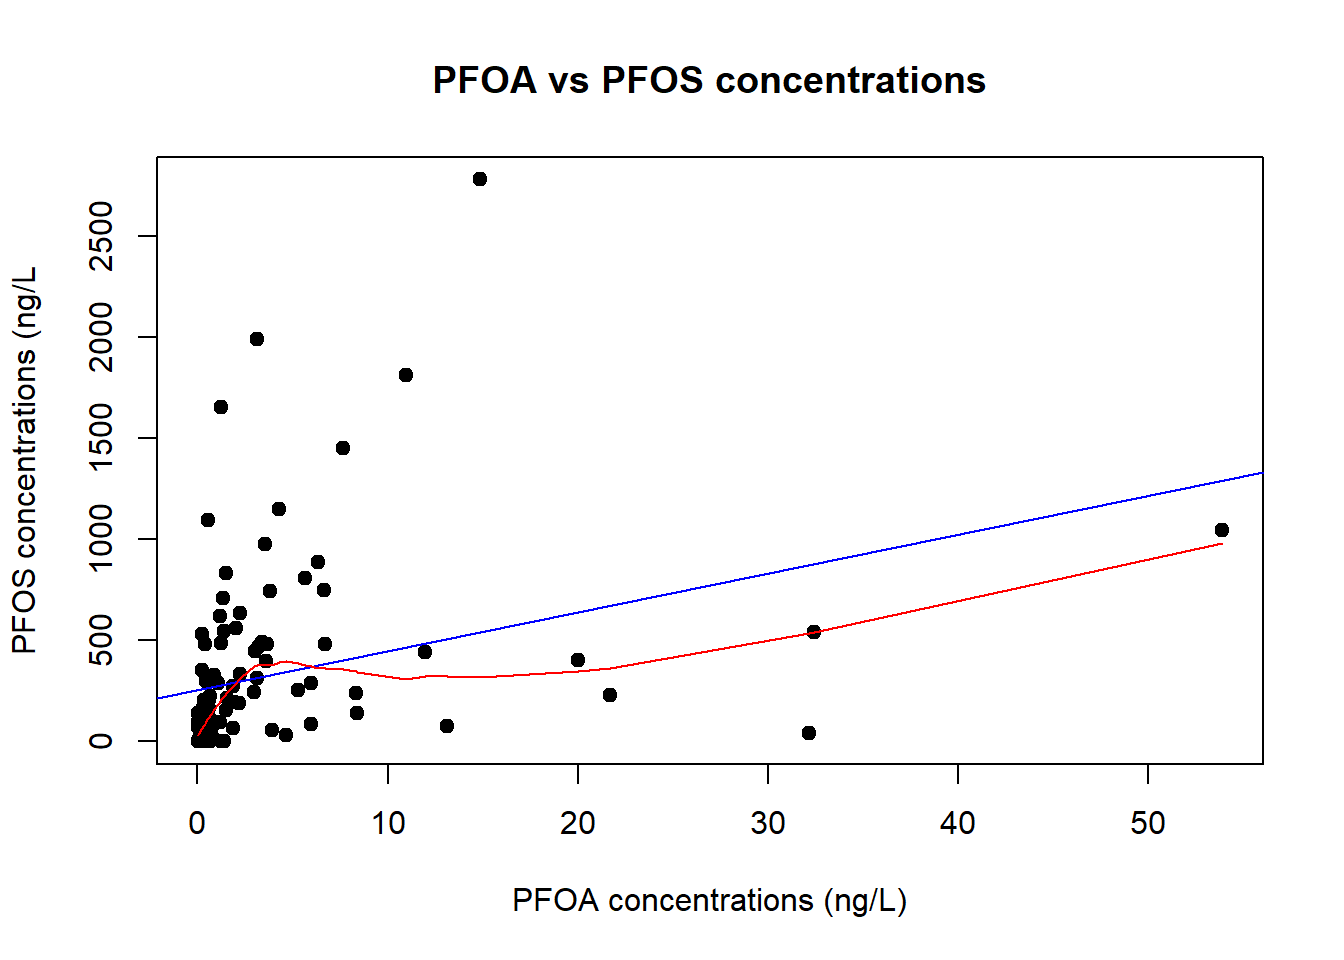
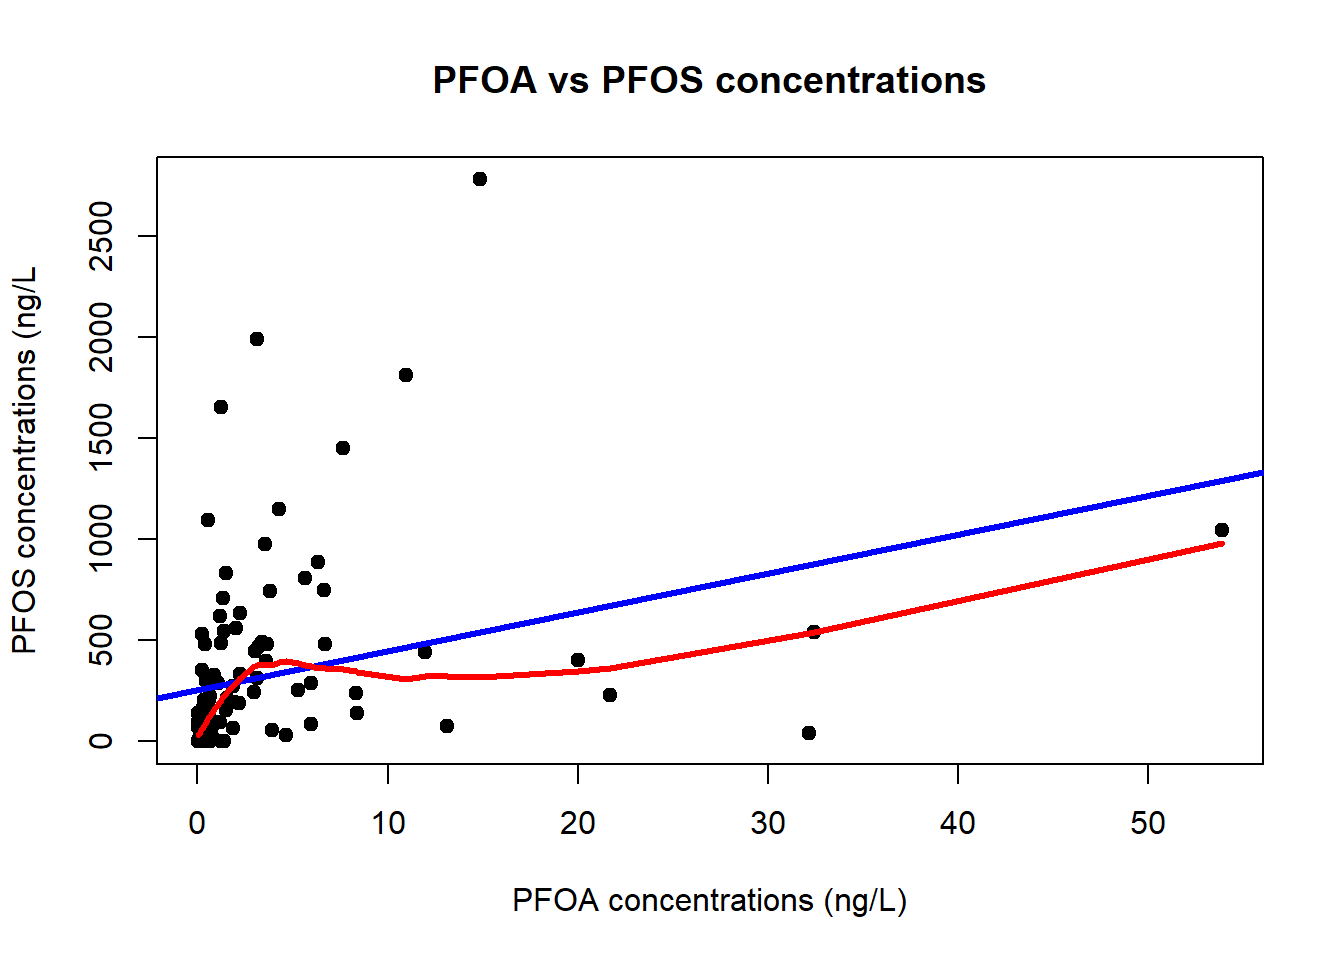
edits

diff --git a/docs/4_Tidyverse.html b/docs/4_Tidyverse.html
@@ -20,6 +20,40 @@ ul.task-list li input[type="checkbox"] {
   margin: 0 0.8em 0.2em -1em; /* quarto-specific, see https://github.com/quarto-dev/quarto-cli/issues/4556 */ 
   vertical-align: middle;
 }
+/* CSS for syntax highlighting */
+pre > code.sourceCode { white-space: pre; position: relative; }
+pre > code.sourceCode > span { display: inline-block; line-height: 1.25; }
+pre > code.sourceCode > span:empty { height: 1.2em; }
+.sourceCode { overflow: visible; }
+code.sourceCode > span { color: inherit; text-decoration: inherit; }
+div.sourceCode { margin: 1em 0; }
+pre.sourceCode { margin: 0; }
+@media screen {
+div.sourceCode { overflow: auto; }
+}
+@media print {
+pre > code.sourceCode { white-space: pre-wrap; }
+pre > code.sourceCode > span { text-indent: -5em; padding-left: 5em; }
+}
+pre.numberSource code
+  { counter-reset: source-line 0; }
+pre.numberSource code > span
+  { position: relative; left: -4em; counter-increment: source-line; }
+pre.numberSource code > span > a:first-child::before
+  { content: counter(source-line);
+    position: relative; left: -1em; text-align: right; vertical-align: baseline;
+    border: none; display: inline-block;
+    -webkit-touch-callout: none; -webkit-user-select: none;
+    -khtml-user-select: none; -moz-user-select: none;
+    -ms-user-select: none; user-select: none;
+    padding: 0 4px; width: 4em;
+  }
+pre.numberSource { margin-left: 3em;  padding-left: 4px; }
+div.sourceCode
+  {   }
+@media screen {
+pre > code.sourceCode > span > a:first-child::before { text-decoration: underline; }
+}
 </style>
 
 
@@ -165,7 +199,15 @@ ul.task-list li input[type="checkbox"] {
 <div id="quarto-sidebar-glass" data-bs-toggle="collapse" data-bs-target="#quarto-sidebar,#quarto-sidebar-glass"></div>
 <!-- margin-sidebar -->
     <div id="quarto-margin-sidebar" class="sidebar margin-sidebar">
-        
+        <nav id="TOC" role="doc-toc" class="toc-active">
+    <h2 id="toc-title">Table of contents</h2>
+   
+  <ul>
+  <li><a href="#ggplot2" id="toc-ggplot2" class="nav-link active" data-scroll-target="#ggplot2"><span class="header-section-number">5.1</span> ggplot2</a></li>
+  <li><a href="#not-finished" id="toc-not-finished" class="nav-link" data-scroll-target="#not-finished"><span class="header-section-number">5.2</span> NOT FINISHED</a></li>
+  <li><a href="#pivot_longer" id="toc-pivot_longer" class="nav-link" data-scroll-target="#pivot_longer"><span class="header-section-number">5.3</span> pivot_longer</a></li>
+  </ul>
+</nav>
     </div>
 <!-- main -->
 <main class="content" id="quarto-document-content">
@@ -187,8 +229,89 @@ ul.task-list li input[type="checkbox"] {
 
 </header>
 
+<p>See: <a href="https://www.tidyverse.org/" class="uri">https://www.tidyverse.org/</a></p>
+<section id="ggplot2" class="level2" data-number="5.1">
+<h2 data-number="5.1" class="anchored" data-anchor-id="ggplot2"><span class="header-section-number">5.1</span> ggplot2</h2>
+<p>See: <a href="https://github.com/rstudio/cheatsheets/blob/main/data-visualization.pdf" class="uri">https://github.com/rstudio/cheatsheets/blob/main/data-visualization.pdf</a></p>
+<p>ggplot2 includes the general components:</p>
+<ul>
+<li><p>data</p></li>
+<li><p>mappings (aesthetics)</p></li>
+<li><p>geometric representation</p></li>
+<li><p>statistics</p></li>
+<li><p>facet</p></li>
+<li><p>coordinate space</p></li>
+<li><p>labels</p></li>
+<li><p>theme</p></li>
+</ul>
+<p>Example:</p>
+<p>This will produce similar plot as @sec-baseRplots</p>
+<div class="cell">
+<div class="sourceCode cell-code" id="cb1"><pre class="sourceCode r code-with-copy"><code class="sourceCode r"><span id="cb1-1"><a href="#cb1-1" aria-hidden="true" tabindex="-1"></a><span class="fu">ggplot</span>(<span class="at">data =</span> PFAS_insects, <span class="at">mapping =</span> <span class="fu">aes</span>(<span class="at">x =</span> PFOA, <span class="at">y =</span> PFOS)) <span class="sc">+</span></span>
+<span id="cb1-2"><a href="#cb1-2" aria-hidden="true" tabindex="-1"></a>  <span class="fu">geom_point</span>(<span class="at">size =</span> <span class="dv">2</span>, <span class="at">colour =</span> <span class="st">"black"</span>) <span class="sc">+</span> <span class="co"># add a scatter plot</span></span>
+<span id="cb1-3"><a href="#cb1-3" aria-hidden="true" tabindex="-1"></a>  <span class="fu">geom_smooth</span>(<span class="at">method =</span> <span class="st">"lm"</span>, <span class="co"># uses the linear regression model</span></span>
+<span id="cb1-4"><a href="#cb1-4" aria-hidden="true" tabindex="-1"></a>              <span class="at">se =</span> <span class="cn">FALSE</span>, <span class="co"># this will remove the confidence intervals</span></span>
+<span id="cb1-5"><a href="#cb1-5" aria-hidden="true" tabindex="-1"></a>              <span class="at">colour =</span> <span class="st">"blue"</span>,</span>
+<span id="cb1-6"><a href="#cb1-6" aria-hidden="true" tabindex="-1"></a>              <span class="at">size =</span> <span class="dv">2</span>) <span class="sc">+</span></span>
+<span id="cb1-7"><a href="#cb1-7" aria-hidden="true" tabindex="-1"></a>  <span class="fu">geom_smooth</span>(<span class="at">method =</span> <span class="st">"loess"</span>,</span>
+<span id="cb1-8"><a href="#cb1-8" aria-hidden="true" tabindex="-1"></a>              <span class="at">se =</span> <span class="cn">FALSE</span>,</span>
+<span id="cb1-9"><a href="#cb1-9" aria-hidden="true" tabindex="-1"></a>              <span class="at">colour =</span> <span class="st">"red"</span>,</span>
+<span id="cb1-10"><a href="#cb1-10" aria-hidden="true" tabindex="-1"></a>              <span class="at">size =</span> <span class="dv">2</span>)</span></code><button title="Copy to Clipboard" class="code-copy-button"><i class="bi"></i></button></pre></div>
+<div class="cell-output cell-output-stderr">
+<pre><code>Warning: Using `size` aesthetic for lines was deprecated in ggplot2 3.4.0.
+ℹ Please use `linewidth` instead.</code></pre>
+</div>
+<div class="cell-output cell-output-stderr">
+<pre><code>`geom_smooth()` using formula = 'y ~ x'
+`geom_smooth()` using formula = 'y ~ x'</code></pre>
+</div>
+<div class="cell-output-display">
+<p><img src="4_Tidyverse_files/figure-html/unnamed-chunk-2-1.png" class="img-fluid" width="672"></p>
+</div>
+</div>
+</section>
+<section id="not-finished" class="level2" data-number="5.2">
+<h2 data-number="5.2" class="anchored" data-anchor-id="not-finished"><span class="header-section-number">5.2</span> NOT FINISHED</h2>
+<p>We can add another geom by mapping again new variables (PFBS ~ PFOA)</p>
+<div class="cell">
+<div class="sourceCode cell-code" id="cb4"><pre class="sourceCode r code-with-copy"><code class="sourceCode r"><span id="cb4-1"><a href="#cb4-1" aria-hidden="true" tabindex="-1"></a><span class="fu">ggplot</span>(<span class="at">data =</span> PFAS_insects) <span class="sc">+</span></span>
+<span id="cb4-2"><a href="#cb4-2" aria-hidden="true" tabindex="-1"></a>  <span class="fu">geom_point</span>(<span class="at">mapping =</span> <span class="fu">aes</span>(<span class="at">x =</span> PFOA, <span class="at">y =</span> PFOS, <span class="at">size =</span> PFOS), <span class="at">colour =</span> <span class="st">"black"</span>) <span class="sc">+</span> </span>
+<span id="cb4-3"><a href="#cb4-3" aria-hidden="true" tabindex="-1"></a>  <span class="fu">geom_smooth</span>(<span class="at">mapping =</span> <span class="fu">aes</span>(<span class="at">x =</span> PFOA, <span class="at">y =</span> PFOS), </span>
+<span id="cb4-4"><a href="#cb4-4" aria-hidden="true" tabindex="-1"></a>              <span class="at">method =</span> <span class="st">"lm"</span>, </span>
+<span id="cb4-5"><a href="#cb4-5" aria-hidden="true" tabindex="-1"></a>              <span class="at">se =</span> <span class="cn">FALSE</span>, </span>
+<span id="cb4-6"><a href="#cb4-6" aria-hidden="true" tabindex="-1"></a>              <span class="at">colour =</span> <span class="st">"blue"</span>,</span>
+<span id="cb4-7"><a href="#cb4-7" aria-hidden="true" tabindex="-1"></a>              <span class="at">size =</span> <span class="dv">2</span>) <span class="sc">+</span></span>
+<span id="cb4-8"><a href="#cb4-8" aria-hidden="true" tabindex="-1"></a>  <span class="fu">geom_smooth</span>(<span class="at">mapping =</span> <span class="fu">aes</span>(<span class="at">x =</span> PFOA, <span class="at">y =</span> PFOS), </span>
+<span id="cb4-9"><a href="#cb4-9" aria-hidden="true" tabindex="-1"></a>              <span class="at">method =</span> <span class="st">"loess"</span>,</span>
+<span id="cb4-10"><a href="#cb4-10" aria-hidden="true" tabindex="-1"></a>              <span class="at">se =</span> <span class="cn">FALSE</span>,</span>
+<span id="cb4-11"><a href="#cb4-11" aria-hidden="true" tabindex="-1"></a>              <span class="at">colour =</span> <span class="st">"red"</span>,</span>
+<span id="cb4-12"><a href="#cb4-12" aria-hidden="true" tabindex="-1"></a>              <span class="at">size =</span> <span class="dv">2</span>) <span class="sc">+</span></span>
+<span id="cb4-13"><a href="#cb4-13" aria-hidden="true" tabindex="-1"></a>  <span class="fu">geom_point</span>(<span class="at">mapping =</span> <span class="fu">aes</span>(<span class="at">x =</span> PFOA, <span class="at">y =</span> PFBS, <span class="co"># new mapping</span></span>
+<span id="cb4-14"><a href="#cb4-14" aria-hidden="true" tabindex="-1"></a>                           <span class="at">size =</span> PFBS), <span class="co"># size of points according to PFBS values</span></span>
+<span id="cb4-15"><a href="#cb4-15" aria-hidden="true" tabindex="-1"></a>             <span class="at">colour =</span> <span class="st">"pink"</span>) <span class="sc">+</span> <span class="co"># colour outside of mappings </span></span>
+<span id="cb4-16"><a href="#cb4-16" aria-hidden="true" tabindex="-1"></a>  <span class="fu">theme_classic</span>() <span class="co"># This theme will remove the background colours and lines</span></span></code><button title="Copy to Clipboard" class="code-copy-button"><i class="bi"></i></button></pre></div>
+<div class="cell-output cell-output-stderr">
+<pre><code>`geom_smooth()` using formula = 'y ~ x'
+`geom_smooth()` using formula = 'y ~ x'</code></pre>
+</div>
+<div class="cell-output-display">
+<p><img src="4_Tidyverse_files/figure-html/unnamed-chunk-3-1.png" class="img-fluid" width="672"></p>
+</div>
+</div>
+</section>
+<section id="pivot_longer" class="level2" data-number="5.3">
+<h2 data-number="5.3" class="anchored" data-anchor-id="pivot_longer"><span class="header-section-number">5.3</span> pivot_longer</h2>
+<p>See: <a href="https://tidyr.tidyverse.org/reference/pivot_longer.html" class="uri">https://tidyr.tidyverse.org/reference/pivot_longer.html</a></p>
+<div class="cell">
+<div class="sourceCode cell-code" id="cb6"><pre class="sourceCode r code-with-copy"><code class="sourceCode r"><span id="cb6-1"><a href="#cb6-1" aria-hidden="true" tabindex="-1"></a>PFAS_insects_long <span class="ot">&lt;-</span> PFAS_insects <span class="sc">%&gt;%</span> <span class="co"># shortcut for pipe Ctrl + shift + M</span></span>
+<span id="cb6-2"><a href="#cb6-2" aria-hidden="true" tabindex="-1"></a>  <span class="fu">pivot_longer</span>(<span class="at">cols =</span> PFBA<span class="sc">:</span>sum_21PFAS, <span class="co"># select all columns from PFBA to sum_21PFAS</span></span>
+<span id="cb6-3"><a href="#cb6-3" aria-hidden="true" tabindex="-1"></a>               <span class="at">names_to =</span> <span class="st">"PFAS"</span>, <span class="co"># name of the new column</span></span>
+<span id="cb6-4"><a href="#cb6-4" aria-hidden="true" tabindex="-1"></a>               <span class="at">values_to =</span> <span class="st">"Conc"</span>) <span class="sc">%&gt;%</span>  <span class="co">#name of the values from PFBA:sum_21PFAS</span></span>
+<span id="cb6-5"><a href="#cb6-5" aria-hidden="true" tabindex="-1"></a>  <span class="fu">mutate</span>(<span class="at">PFAS =</span> <span class="fu">as.factor</span>(PFAS)) <span class="co">#make PFAS column a factor variable</span></span></code><button title="Copy to Clipboard" class="code-copy-button"><i class="bi"></i></button></pre></div>
+</div>
 
 
+</section>
 
 </main> <!-- /main -->
 <script id="quarto-html-after-body" type="application/javascript">

diff --git a/docs/1_Basic_R.html b/docs/1_Basic_R.html
@@ -209,7 +209,7 @@ pre > code.sourceCode > span > a:first-child::before { text-decoration: underlin
   <li><a href="#object-types-in-r" id="toc-object-types-in-r" class="nav-link" data-scroll-target="#object-types-in-r"><span class="header-section-number">2.2.1</span> <u>Object types</u> in R</a></li>
   <li><a href="#operators-in-r" id="toc-operators-in-r" class="nav-link" data-scroll-target="#operators-in-r"><span class="header-section-number">2.2.2</span> Operators in R</a></li>
   <li><a href="#sec-loadfiles" id="toc-sec-loadfiles" class="nav-link" data-scroll-target="#sec-loadfiles"><span class="header-section-number">2.2.3</span> <u>Loading or importing data files</u></a></li>
-  <li><a href="#base-r-plots" id="toc-base-r-plots" class="nav-link" data-scroll-target="#base-r-plots"><span class="header-section-number">2.2.4</span> <u>Base R plots</u></a></li>
+  <li><a href="#sec-baseRplots" id="toc-sec-baseRplots" class="nav-link" data-scroll-target="#sec-baseRplots"><span class="header-section-number">2.2.4</span> <u>Base R plots</u></a></li>
   </ul></li>
   </ul>
 </nav>
@@ -577,8 +577,8 @@ a multiple of shorter object length</code></pre>
 <p><em>Logical Operators</em></p>
 <table class="table">
 <colgroup>
-<col style="width: 10%">
-<col style="width: 89%">
+<col style="width: 19%">
+<col style="width: 80%">
 </colgroup>
 <thead>
 <tr class="header">
@@ -612,9 +612,9 @@ a multiple of shorter object length</code></pre>
 <p><em>Other useful operators</em></p>
 <table class="table">
 <colgroup>
-<col style="width: 7%">
-<col style="width: 34%">
-<col style="width: 57%">
+<col style="width: 20%">
+<col style="width: 29%">
+<col style="width: 50%">
 </colgroup>
 <thead>
 <tr class="header">
@@ -651,8 +651,8 @@ a multiple of shorter object length</code></pre>
 <span id="cb55-2"><a href="#cb55-2" aria-hidden="true" tabindex="-1"></a>    <span class="at">sheet =</span> <span class="st">"Overview"</span>)</span></code><button title="Copy to Clipboard" class="code-copy-button"><i class="bi"></i></button></pre></div>
 </div>
 </section>
-<section id="base-r-plots" class="level3" data-number="2.2.4">
-<h3 data-number="2.2.4" class="anchored" data-anchor-id="base-r-plots"><span class="header-section-number">2.2.4</span> <u>Base R plots</u></h3>
+<section id="sec-baseRplots" class="level3" data-number="2.2.4">
+<h3 data-number="2.2.4" class="anchored" data-anchor-id="sec-baseRplots"><span class="header-section-number">2.2.4</span> <u>Base R plots</u></h3>
 <p>Base R plots are those functions that come with the R version. Additional packages that are easier to handle and have more advanced features will be demonstrated later.</p>
 <p><strong>Scatter plot: plot()</strong></p>
 <div class="cell">
@@ -662,27 +662,29 @@ a multiple of shorter object length</code></pre>
 <span id="cb56-4"><a href="#cb56-4" aria-hidden="true" tabindex="-1"></a>     <span class="at">xlab =</span> <span class="st">"PFOA concentrations (ng/L)"</span>,</span>
 <span id="cb56-5"><a href="#cb56-5" aria-hidden="true" tabindex="-1"></a>     <span class="at">ylab =</span> <span class="st">"PFOS concentrations (ng/L"</span>,</span>
 <span id="cb56-6"><a href="#cb56-6" aria-hidden="true" tabindex="-1"></a>     <span class="at">pch =</span> <span class="dv">19</span>) <span class="co"># choosing symbol for points in a graph (see ?pch for number/symbol) </span></span>
-<span id="cb56-7"><a href="#cb56-7" aria-hidden="true" tabindex="-1"></a><span class="co"># We can add a regression line into the same graph</span></span>
-<span id="cb56-8"><a href="#cb56-8" aria-hidden="true" tabindex="-1"></a><span class="fu">abline</span>(<span class="fu">lm</span>(PFAS_insects<span class="sc">$</span>PFOS <span class="sc">~</span> PFAS_insects<span class="sc">$</span>PFOA, <span class="at">data =</span> PFAS_insects), <span class="at">col =</span> <span class="st">"blue"</span>)</span>
-<span id="cb56-9"><a href="#cb56-9" aria-hidden="true" tabindex="-1"></a></span>
-<span id="cb56-10"><a href="#cb56-10" aria-hidden="true" tabindex="-1"></a><span class="co"># as well as a loess fit</span></span>
-<span id="cb56-11"><a href="#cb56-11" aria-hidden="true" tabindex="-1"></a><span class="fu">lines</span>(<span class="fu">lowess</span>(PFAS_insects<span class="sc">$</span>PFOA, PFAS_insects<span class="sc">$</span>PFOS), <span class="at">col =</span> <span class="st">"red"</span>)</span></code><button title="Copy to Clipboard" class="code-copy-button"><i class="bi"></i></button></pre></div>
+<span id="cb56-7"><a href="#cb56-7" aria-hidden="true" tabindex="-1"></a></span>
+<span id="cb56-8"><a href="#cb56-8" aria-hidden="true" tabindex="-1"></a><span class="co"># We can add a regression line into the same graph</span></span>
+<span id="cb56-9"><a href="#cb56-9" aria-hidden="true" tabindex="-1"></a><span class="fu">abline</span>(<span class="fu">lm</span>(PFAS_insects<span class="sc">$</span>PFOS <span class="sc">~</span> PFAS_insects<span class="sc">$</span>PFOA, <span class="at">data =</span> PFAS_insects), <span class="at">col =</span> <span class="st">"blue"</span>, <span class="at">lwd =</span> <span class="dv">3</span>) <span class="co"># lwd is the line width</span></span>
+<span id="cb56-10"><a href="#cb56-10" aria-hidden="true" tabindex="-1"></a></span>
+<span id="cb56-11"><a href="#cb56-11" aria-hidden="true" tabindex="-1"></a><span class="co"># as well as a loess fit</span></span>
+<span id="cb56-12"><a href="#cb56-12" aria-hidden="true" tabindex="-1"></a><span class="fu">lines</span>(<span class="fu">lowess</span>(PFAS_insects<span class="sc">$</span>PFOA, PFAS_insects<span class="sc">$</span>PFOS), <span class="at">col =</span> <span class="st">"red"</span>, <span class="at">lwd =</span> <span class="dv">3</span>)</span></code><button title="Copy to Clipboard" class="code-copy-button"><i class="bi"></i></button></pre></div>
 <div class="cell-output-display">
 <p><img src="1_Basic_R_files/figure-html/unnamed-chunk-23-1.png" class="img-fluid" width="672"></p>
 </div>
+<div class="sourceCode cell-code" id="cb57"><pre class="sourceCode r code-with-copy"><code class="sourceCode r"><span id="cb57-1"><a href="#cb57-1" aria-hidden="true" tabindex="-1"></a><span class="co"># to clear the graphics from the Plots pane, use graphics.off() in the script or dev.off() in the console</span></span></code><button title="Copy to Clipboard" class="code-copy-button"><i class="bi"></i></button></pre></div>
 </div>
 <p><strong>Bar plots: barplot()</strong></p>
 <div class="cell">
-<div class="sourceCode cell-code" id="cb57"><pre class="sourceCode r code-with-copy"><code class="sourceCode r"><span id="cb57-1"><a href="#cb57-1" aria-hidden="true" tabindex="-1"></a>groupsPFOS <span class="ot">&lt;-</span> PFAS_insects[, <span class="fu">c</span>(<span class="st">"Group"</span>, <span class="st">"PFOS"</span>)] <span class="co"># subset two variables from the dataframe</span></span>
-<span id="cb57-2"><a href="#cb57-2" aria-hidden="true" tabindex="-1"></a><span class="fu">barplot</span>(<span class="at">height =</span> PFAS_insects<span class="sc">$</span>PFOS)</span></code><button title="Copy to Clipboard" class="code-copy-button"><i class="bi"></i></button></pre></div>
+<div class="sourceCode cell-code" id="cb58"><pre class="sourceCode r code-with-copy"><code class="sourceCode r"><span id="cb58-1"><a href="#cb58-1" aria-hidden="true" tabindex="-1"></a>groupsPFOS <span class="ot">&lt;-</span> PFAS_insects[, <span class="fu">c</span>(<span class="st">"Group"</span>, <span class="st">"PFOS"</span>)] <span class="co"># subset two variables from the dataframe</span></span>
+<span id="cb58-2"><a href="#cb58-2" aria-hidden="true" tabindex="-1"></a><span class="fu">barplot</span>(<span class="at">height =</span> PFAS_insects<span class="sc">$</span>PFOS)</span></code><button title="Copy to Clipboard" class="code-copy-button"><i class="bi"></i></button></pre></div>
 <div class="cell-output-display">
 <p><img src="1_Basic_R_files/figure-html/unnamed-chunk-24-1.png" class="img-fluid" width="672"></p>
 </div>
 </div>
 <p><strong>Box plots: boxplot()</strong></p>
 <div class="cell">
-<div class="sourceCode cell-code" id="cb58"><pre class="sourceCode r code-with-copy"><code class="sourceCode r"><span id="cb58-1"><a href="#cb58-1" aria-hidden="true" tabindex="-1"></a><span class="co"># Box plot of one variable</span></span>
-<span id="cb58-2"><a href="#cb58-2" aria-hidden="true" tabindex="-1"></a><span class="fu">boxplot</span>(PFAS_insects<span class="sc">$</span>PFBS)</span></code><button title="Copy to Clipboard" class="code-copy-button"><i class="bi"></i></button></pre></div>
+<div class="sourceCode cell-code" id="cb59"><pre class="sourceCode r code-with-copy"><code class="sourceCode r"><span id="cb59-1"><a href="#cb59-1" aria-hidden="true" tabindex="-1"></a><span class="co"># Box plot of one variable</span></span>
+<span id="cb59-2"><a href="#cb59-2" aria-hidden="true" tabindex="-1"></a><span class="fu">boxplot</span>(PFAS_insects<span class="sc">$</span>PFBS)</span></code><button title="Copy to Clipboard" class="code-copy-button"><i class="bi"></i></button></pre></div>
 <div class="cell-output-display">
 <p><img src="1_Basic_R_files/figure-html/unnamed-chunk-25-1.png" class="img-fluid" width="672"></p>
 </div>

diff --git a/docs/2_Conditions_Loops.html b/docs/2_Conditions_Loops.html
@@ -263,8 +263,8 @@ pre > code.sourceCode > span > a:first-child::before { text-decoration: underlin
 <span id="cb1-23"><a href="#cb1-23" aria-hidden="true" tabindex="-1"></a><span class="st">[4]: 'No actions'</span></span>
 <span id="cb1-24"><a href="#cb1-24" aria-hidden="true" tabindex="-1"></a><span class="st">"</span>)</span></code><button title="Copy to Clipboard" class="code-copy-button"><i class="bi"></i></button></pre></div>
 <div class="cell-output-display">
-<div class="grViz html-widget html-fill-item" id="htmlwidget-17fa88bf7713d3c0cd22" style="width:100%;height:464px;"></div>
-<script type="application/json" data-for="htmlwidget-17fa88bf7713d3c0cd22">{"x":{"diagram":"\ndigraph condition_PFOS {\n\n# node definitions with substituted label text\nnode [fontname = Helvetica]\na [label = \"Pollutant level\", shape = \"box\"]\nb [label = \"Higher than threshold level\", shape = \"box\"]\nc [label = \"Take actions\"]\nd [label = \"No actions\"]\n\n\n# edge definitions with the node IDs\na -> b [label = \"IF\"]\nb -> c [label = \"TRUE\"]\nb -> d [label = \"ELSE\"]\n}","config":{"engine":"dot","options":null}},"evals":[],"jsHooks":[]}</script>
+<div class="grViz html-widget html-fill-item" id="htmlwidget-06d80542fb8dbb3973c3" style="width:100%;height:464px;"></div>
+<script type="application/json" data-for="htmlwidget-06d80542fb8dbb3973c3">{"x":{"diagram":"\ndigraph condition_PFOS {\n\n# node definitions with substituted label text\nnode [fontname = Helvetica]\na [label = \"Pollutant level\", shape = \"box\"]\nb [label = \"Higher than threshold level\", shape = \"box\"]\nc [label = \"Take actions\"]\nd [label = \"No actions\"]\n\n\n# edge definitions with the node IDs\na -> b [label = \"IF\"]\nb -> c [label = \"TRUE\"]\nb -> d [label = \"ELSE\"]\n}","config":{"engine":"dot","options":null}},"evals":[],"jsHooks":[]}</script>
 </div>
 </div>
 <p>Example</p>
